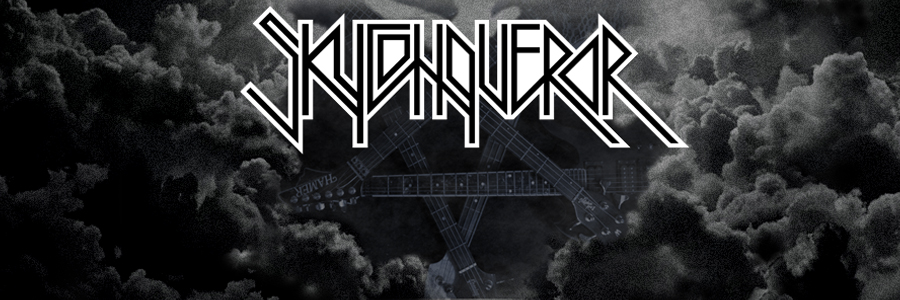
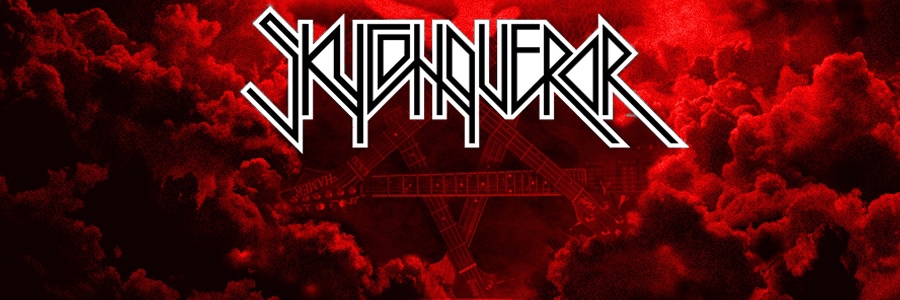
Update site colors, add cover unveil

diff --git a/index.html b/index.html
@@ -9,7 +9,7 @@ meta: news navigation start landing homepage
         <ul data-orbit data-options="pause_on_hover: false; timer_speed: 5000;">
             <li>
                 <img style="max-height: 40em;"
-                     src="{{ site.url }}/img/skyconqueror-2017.jpg" alt="Skyconqueror - The band">
+                     src="{{ site.url }}/img/skyconqueror-2019.jpg" alt="Skyconqueror - The band">
                 <div class="orbit-caption"></div>
             </li>
             <li>

diff --git a/_posts/2022-10-26-cover-unveil-and-site-update.md b/_posts/2022-10-26-cover-unveil-and-site-update.md
@@ -1,0 +1,22 @@
+---
+layout: post
+title: Cover for 'the black raven' unveiled
+image: img/skyconqueror-the-black-raven-cover.png
+---
+
+We are proud to unveil the cover artwork for our upcoming single 'the black raven' that will be released on October 31st.
+
+We also have taken the opportunity to update our website colors to match the colors of the artwork.
+
+We hope your like it!
+
+Release date for 'the black raven' is Oct 31st 2022 - aaaaahh it's Halloween! 🧛♂🧟
+
+Where to get or listen to our music:
+* [skyconqueror.bandcamp.com](https://skyconqueror.bandcamp.com/)
+* [Spotify](https://open.spotify.com/artist/1JcPC8RDuVZFriAyCBKZVp)
+* [Tidal](https://listen.tidal.com/artist/5785807)
+* [Deezer](https://www.deezer.com/us/artist/6460191)
+* [Apple Music](https://music.apple.com/de/artist/skyconqueror/891722894)
+
+#heavy_metal #music #single #release #band

diff --git a/press/index.md b/press/index.md
@@ -45,5 +45,6 @@ Photos
 ---
 
 [![Skyconqueror 2017]({{ site.url }}/img/skyconqueror-2017.jpg)]({{ site.url }}/img/skyconqueror-2017.jpg))
+[![Skyconqueror 2019]({{ site.url }}/img/skyconqueror-2019.jpg)]({{ site.url }}/img/skyconqueror-2019.jpg))
 
 -----
